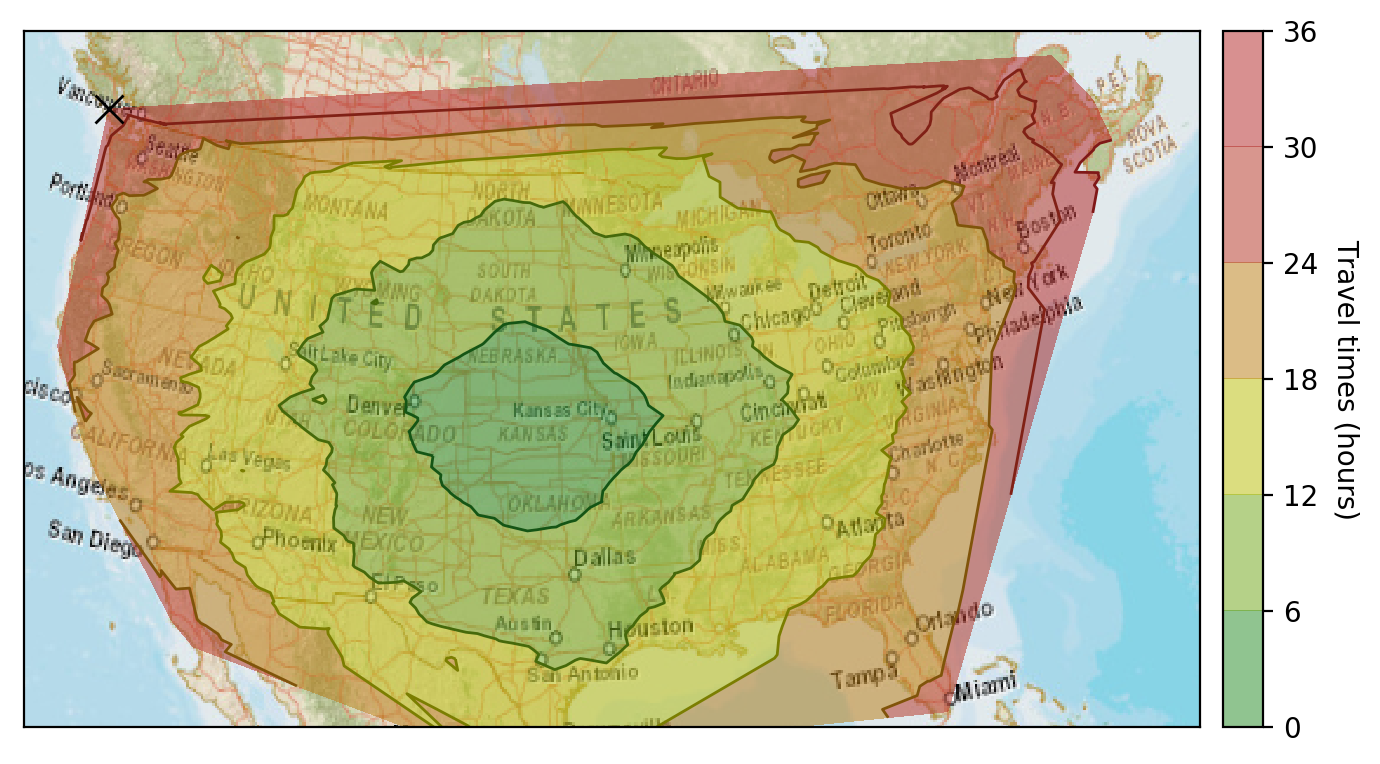
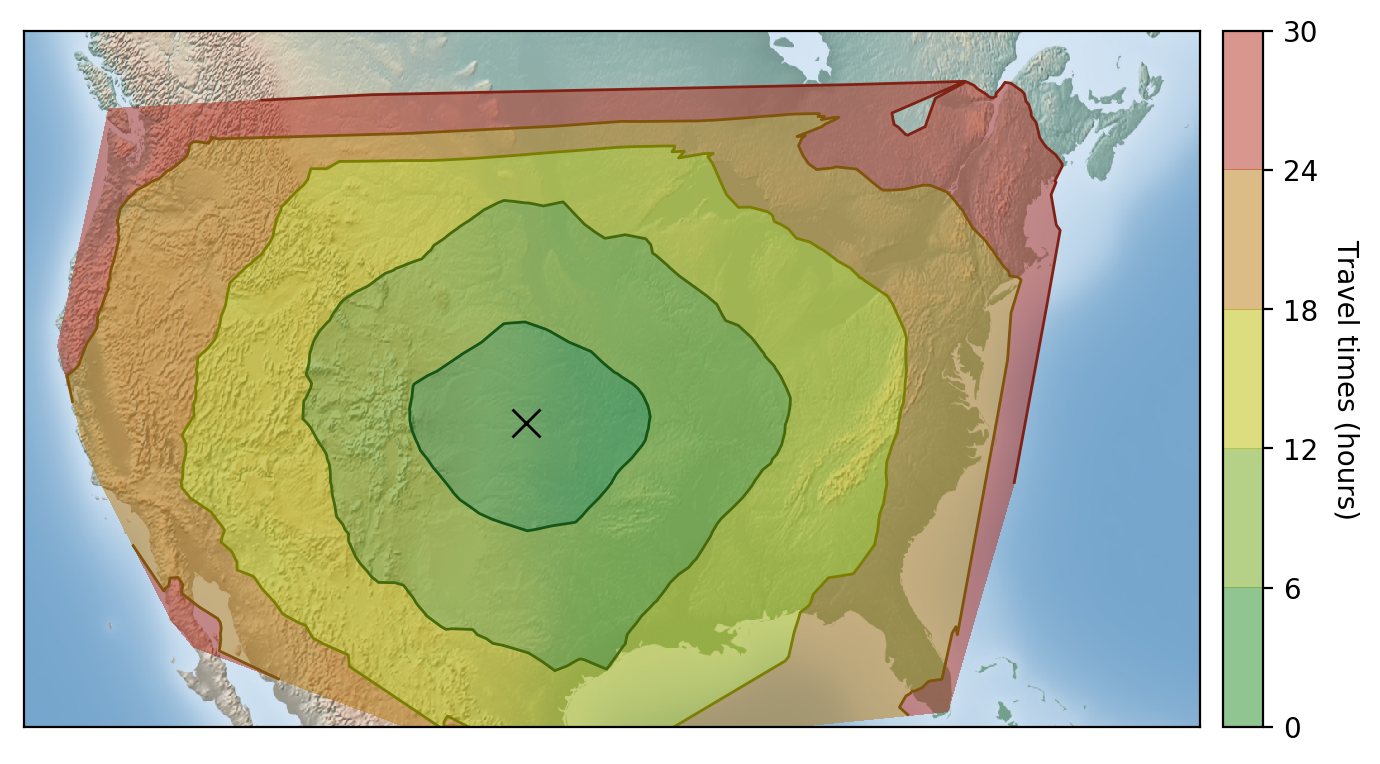
smooth figures

diff --git a/kronomaps/README.md b/kronomaps/README.md
@@ -13,12 +13,13 @@ The work is done in the following python Jupyter notebooks:
 <img src="figs/first_kronomap_interpolated.png" alt="LA isochrone"  width="49%">
 
 - [us_kronomap.ipynb](us_kronomap.ipynb): compute isochrones for the whole United States, starting from the geographic center of the contiguous US (which is near Lebanon, Kansas). Then generate a kronomap of the US (below, right), where points along each circle are at fixed travel times from the center     
-<img src="figs/us_center_interpolated.png" alt="US center isochrone"  width="49%"><img src="figs/us_center_morphed_smooth_bw.png" alt="US center kronomap"  width="49%">
+<img src="figs/us_center_interpolated_states_roads.png" alt="US center isochrone"  width="43%"><img src="figs/us_center_morphed.png" alt="US center kronomap"  width="49%">
 
-The concept of the **kronomap** is better shown via an animation where one smoothly transitions between the standard latitude/longitude map and the kronomap:
+The concept of the **kronomap** is better illustrated via an animation where one smoothly transitions between the standard latitude/longitude map and the kronomap:
 
 ![US center animation](animations/us_morphing.gif)
 
+By definition, same travel-time contours on the kronomap are circles around the starting point.
 
 A walkthrough of the Jupyter notebooks, with many more intermediate plots, is provided in [short_summary.md](short_summary.md).
 
